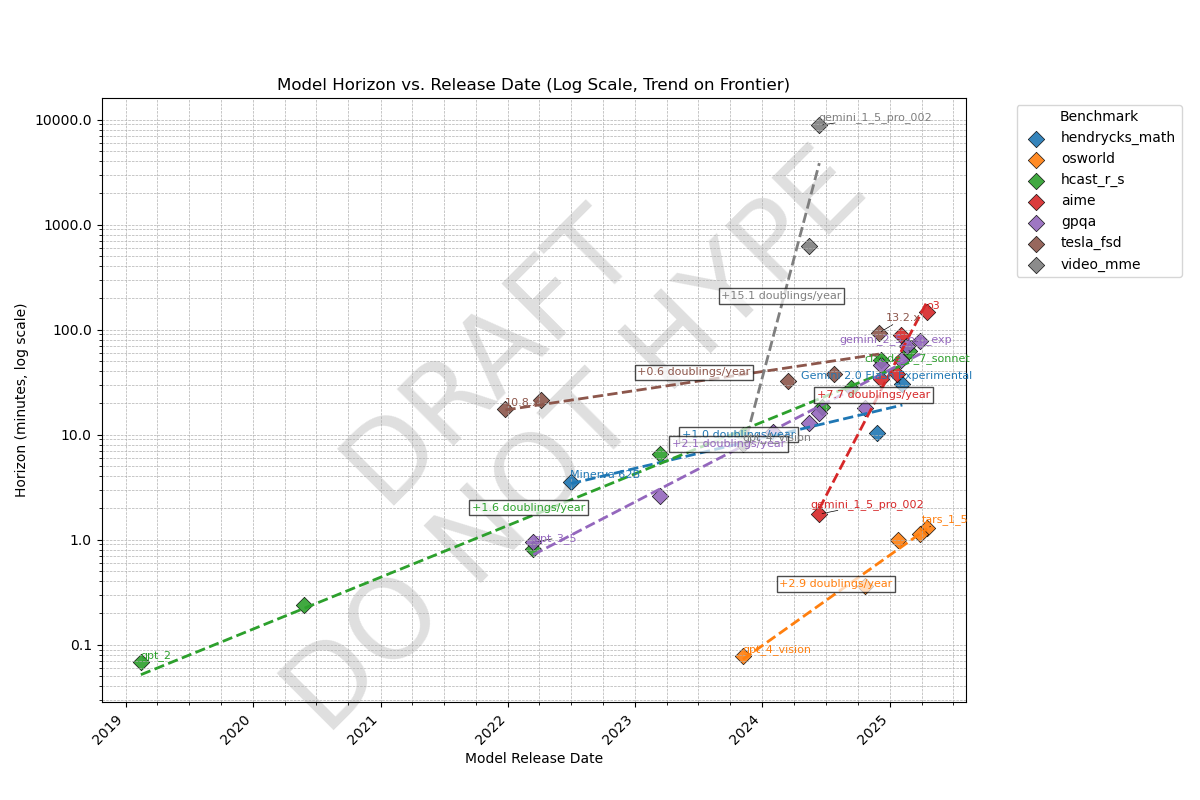
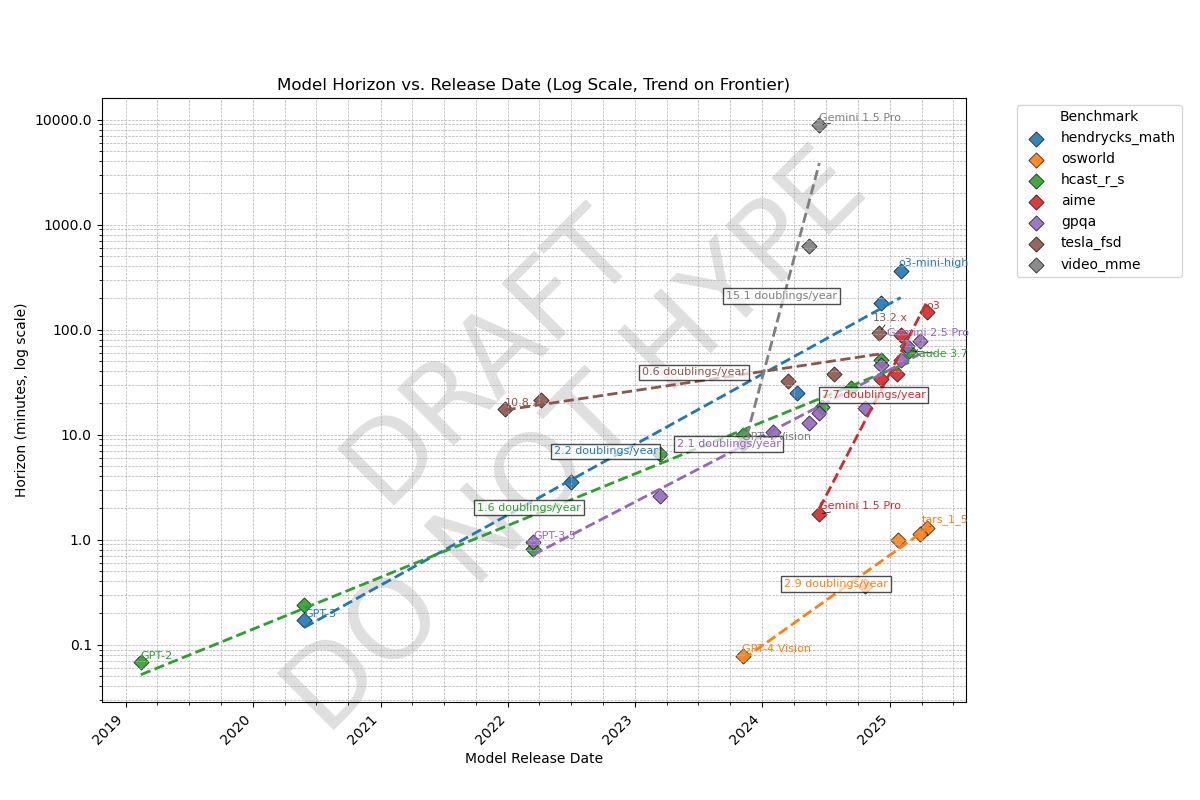
use log2

diff --git a/plots.py b/plots.py
@@ -23,6 +23,17 @@ BENCHMARK_TASK_LENGTHS_OUTPUT_FILE = 'plots/benchmark_task_lengths.png'
 LENGTH_DEPENDENCE_OUTPUT_FILE = 'plots/length_dependence.png'
 Y_AXIS_MIN_SECONDS = 60  # 1 minute
 
+plotting_aliases = {
+    "google_gemini_1_5_pro_002": "Gemini 1.5 Pro",
+    "google_gemini_2_5_pro_exp": "Gemini 2.5 Pro",
+    "Gemini 2.0 Flash Experimental": "Gemini 2.0 Flash",
+    "openai_gpt_4_vision": "GPT-4 Vision",
+    "openai_gpt_3_5": "GPT-3.5",
+    "anthropic_claude_3_7_sonnet": "Claude 3.7",
+    "openai_gpt_2": "GPT-2",
+    "davinci-002 175B": "GPT-3",
+}
+
 def add_watermark(ax=None, text="DRAFT\nDO NOT HYPE", alpha=0.25):
     """Add a watermark to the current plot or specified axes."""
     if ax is None:
@@ -31,6 +42,17 @@ def add_watermark(ax=None, text="DRAFT\nDO NOT HYPE", alpha=0.25):
     ax.text(0.5, 0.5, text, transform=ax.transAxes, 
             fontsize=80, color='gray', alpha=alpha,
             ha='center', va='center', rotation=45, zorder=0)
+
+def get_benchmark_data(benchmarks_path) -> dict[str, list[float]]:
+    """
+    Loads benchmark data from a folder of TOML files, reads the "lengths" key from each file, and returns a dictionary of benchmark name to list of lengths.
+    """
+    benchmark_data = {}
+    for file in os.listdir(benchmarks_path):
+        if file.endswith('.toml'):
+            with open(os.path.join(benchmarks_path, file), 'r') as f:
+                benchmark_data[file.replace('.toml', '')] = toml.load(f)
+    return benchmark_data
 
 def plot_horizons(df, sorted_models):
     """Generates and saves the grouped bar plot."""
@@ -80,6 +102,7 @@ def plot_horizons(df, sorted_models):
 
 
 def plot_lines_over_time(df, output_file,
+                         benchmark_data: dict[str, list[float]],
                          show_benchmarks=None,
                          hide_benchmarks=None,
                          only_frontier=True):
@@ -102,7 +125,7 @@ def plot_lines_over_time(df, output_file,
 
     # Convert horizon to minutes and add log horizon
     plot_df['horizon_minutes'] = plot_df['horizon'] / 60.0
-    plot_df['log_horizon_minutes'] = np.log10(plot_df['horizon_minutes'])
+    plot_df['log2_horizon_minutes'] = np.log2(plot_df['horizon_minutes'])
 
     plot_df['release_date_num'] = mdates.date2num(plot_df['release_date'])
 
@@ -110,6 +133,7 @@ def plot_lines_over_time(df, output_file,
     plot_df['is_frontier'] = False
     benchmarks = plot_df['benchmark'].unique()
     for bench in benchmarks:
+        print(bench)
         bench_df = plot_df[plot_df['benchmark'] == bench].sort_values(by=['release_date_num', 'horizon_minutes'], ascending=[True, False])
         max_horizon_so_far = -np.inf
         frontier_indices = []
@@ -162,7 +186,7 @@ def plot_lines_over_time(df, output_file,
             marker='D',
             label=f"{bench}", # Hidden label for legend
             alpha=0.9,
-            s=70,
+            s=60,
             edgecolor='k',
             linewidth=0.5
         )
@@ -171,7 +195,7 @@ def plot_lines_over_time(df, output_file,
         if len(frontier_data) >= 2:
             # Perform linear regression on numerical date vs log horizon
             X = frontier_data['release_date_num'].values
-            Y_log = frontier_data['log_horizon_minutes'].values
+            Y_log = frontier_data['log2_horizon_minutes'].values
 
             coeffs = np.polyfit(X, Y_log, 1)
             poly = np.poly1d(coeffs)
@@ -180,20 +204,14 @@ def plot_lines_over_time(df, output_file,
             y_line_log = poly(x_line_num)
 
             # Calculate doubling rate (slope in doublings per year)
-            # The slope of log10(y) vs. x gives us log10(2) per unit x
-            # To convert to doublings per year, divide by log10(2)
-            doubling_rate = coeffs[0] * 365 / np.log10(2)  # Convert from per day to per year
+            doubling_rate = coeffs[0] * 365  # Convert from per day to per year
             
             # Add text with doubling rate near the middle of the line
             mid_point_idx = len(x_line_num) // 2
             mid_x_num = x_line_num[mid_point_idx]
-            mid_y = 10**y_line_log[mid_point_idx]
+            mid_y = 2**y_line_log[mid_point_idx]
             
-            # Format the doubling rate with appropriate sign
-            if doubling_rate > 0:
-                rate_text = f"+{doubling_rate:.1f} doublings/year"
-            else:
-                rate_text = f"{doubling_rate:.1f} doublings/year"
+            rate_text = f"{doubling_rate:.1f} doublings/year"
                 
             # Convert numerical date to datetime for text positioning
             mid_x = mdates.num2date(mid_x_num)
@@ -202,7 +220,7 @@ def plot_lines_over_time(df, output_file,
                    ha='center', va='bottom', bbox=dict(facecolor='white', alpha=0.7, pad=2))
 
             x_line_date = mdates.num2date(x_line_num)
-            y_line = 10.0**y_line_log
+            y_line = 2.0**y_line_log
 
             ax.plot(x_line_date, y_line, color=color, linestyle='--', linewidth=2, label=f"_{bench}_trend")
 
@@ -214,9 +232,15 @@ def plot_lines_over_time(df, output_file,
                 last_frontier_point = frontier_data_sorted.iloc[-1]
 
                 def text_label(point):
+                    model_name = point['model']
+                    print(model_name)
+                    if model_name in plotting_aliases:
+                        model_name = plotting_aliases[model_name]
+                    else:
+                        model_name = point['model'].split('_',1)[-1]
                     texts.append(ax.text(point['release_date'],
                                          point['horizon_minutes'],
-                                         point['model'].split('_',1)[-1],
+                                         model_name,
                                          fontsize=8, color=color))
 
                 text_label(first_frontier_point)
@@ -257,32 +281,19 @@ def plot_lines_over_time(df, output_file,
     plt.close(fig)
 
 
-def plot_benchmarks(df: pd.DataFrame, benchmarks_path: pathlib.Path, output_file: pathlib.Path):
+def plot_benchmarks(df: pd.DataFrame, benchmark_data: dict[str, list[float]], output_file: pathlib.Path):
     """
     df is a dataframe holding horizon data for all models on all benchmarks.
 
     TODO this should have multiple boxplots "within" each scatter plot, one for each split.
     """
 
-
-    def get_benchmark_data(benchmarks_path) -> dict[str, list[float]]:
-        """
-        Loads benchmark data from a folder of TOML files, reads the "lengths" key from each file, and returns a dictionary of benchmark name to list of lengths.
-        """
-        benchmark_data = {}
-        for file in os.listdir(benchmarks_path):
-            if file.endswith('.toml'):
-                with open(os.path.join(benchmarks_path, file), 'r') as f:
-                    benchmark_data[file.replace('.toml', '')] = toml.load(f)
-        return benchmark_data
     
     length_to_color_map = {
         "baseline": "blue",
         "estimate": "grey",
         "default": "black"
     }
-
-    benchmark_data = get_benchmark_data(benchmarks_path)
 
     # Create a DataFrame for seaborn
     lengths_df = pd.DataFrame([
@@ -408,6 +419,8 @@ def main():
     pivot_df.to_csv('data/all_data.csv', index=False)
     print("Raw data written to data/all_data.csv")
 
+    benchmark_data = get_benchmark_data(BENCHMARKS_PATH)
+
     # --- Bar Plot --- 
     if "bar" in plots_to_make:
         # Filter and sort for the bar plot using wrangle
@@ -418,13 +431,13 @@ def main():
     # --- Lines Over Time Plot ---
     if "lines" in plots_to_make:
         # Generate and save the lines over time plot using the original loaded data
-        plot_lines_over_time(all_df.copy(), LINES_PLOT_OUTPUT_FILE, hide_benchmarks=["hcast_r_s_full_method"]) # Use copy
-        plot_lines_over_time(all_df.copy(), "plots/hcast_comparison.png", show_benchmarks=["hcast_r_s", "hcast_r_s_full_method"])
+        plot_lines_over_time(all_df.copy(), LINES_PLOT_OUTPUT_FILE, benchmark_data, hide_benchmarks=["hcast_r_s_full_method"]) # Use copy
+        plot_lines_over_time(all_df.copy(), "plots/hcast_comparison.png", benchmark_data, show_benchmarks=["hcast_r_s", "hcast_r_s_full_method"])
 
 
     # --- Benchmark Task Lengths Plot ---
     if "lengths" in plots_to_make:
-        plot_benchmarks(all_df, BENCHMARKS_PATH, BENCHMARK_TASK_LENGTHS_OUTPUT_FILE)
+        plot_benchmarks(all_df, benchmark_data,BENCHMARK_TASK_LENGTHS_OUTPUT_FILE)
 
     # --- Length Dependence Plot ---
     if "length_dependence" in plots_to_make:

diff --git a/hendrycks_math.py b/hendrycks_math.py
@@ -20,6 +20,9 @@ scores = {
     "GPT-3 175B": 5.2,
     "GPT-4o": 76.6,
     "Claude 3.5 Sonnet": 71.1,
+    "Claude 3.7 Sonnet": 96.2,
+    'o1': 96.4,
+    'o3-mini-high': 97.9,
 
 }
 for i, row in enumerate(ds):
